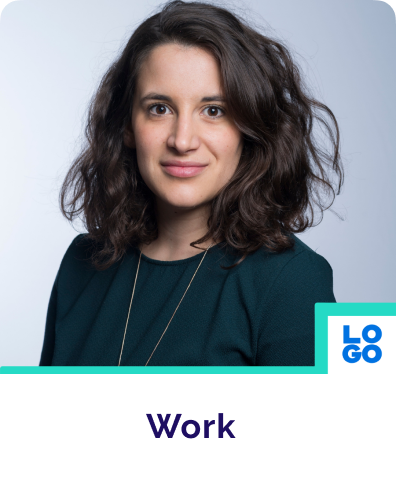
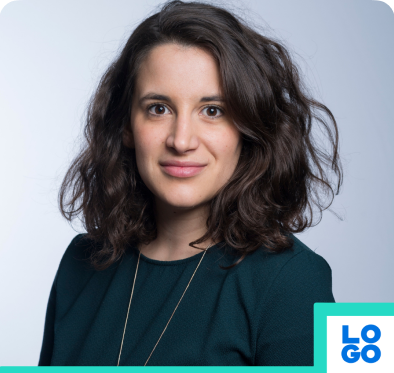
the external card url is now set up for cards, so it can be accessed by other user to store the that card in the contact

diff --git a/src/pages/Cards_Page/IndividualCardPage.jsx b/src/pages/Cards_Page/IndividualCardPage.jsx
@@ -1,0 +1,43 @@
+import React, { useState, useEffect } from 'react';
+import { useParams } from 'react-router-dom';
+import FullCard from "./FullCard";
+import "./IndividualCardPage.css";
+
+
+const IndividualCard = () => {
+    let [cardData, setCardData] = useState();
+
+    //! It has to be called exactly the same as defined in the path(App.js)
+    let { id } = useParams();
+
+    useEffect(() => {
+        console.log(id);
+        fetch(`http://localhost:3306/api/individual/card/${id}`)
+        .then((res) => res.json())
+        .then((data) => {
+            setCardData(data);
+            console.log(data);
+        });
+    }, [id]);
+
+
+    return (
+        <div className="individual-card-page-container">
+            <p>This is the individual contact card page</p>
+            <p>Card ID: {id}</p>
+            <>
+            {cardData ? 
+            <>
+            <p>First Name: {cardData[0].first_name}</p>
+            <p>Second Name: {cardData[0].second_name}</p>
+            </>
+            :
+            null
+            }
+            </>
+            <FullCard />
+        </div>
+    )
+}
+
+export default IndividualCard; 

diff --git a/src/App.js b/src/App.js
@@ -25,6 +25,7 @@ import LPFeatures from './pages/Landing_Page/Features_Section/LPFeatures.jsx';
 import OrderCrdCustomized from './pages/Order_Physical_Card_Page/OrderCrdCust.jsx';
 import OrderCrdPremium from './pages/Order_Physical_Card_Page/OrderCrdPrem.jsx';
 import ContactCardDesign from './pages/View_Contact_Card_Page/ContactCardDesign.jsx';
+import IndividualCardPage from './pages/Cards_Page/IndividualCardPage';
 
 function App() {
   // const context = useContext(MyContext);
@@ -55,6 +56,7 @@ function App() {
             <Route path="/order-cardprem" element={<OrderCrdPremium />} />
             <Route path="/error" element={<Error />} />
             <Route path="/contact-card" element={<ContactCardDesign />} />
+            <Route path="cards/individual/card/:id" element={<IndividualCardPage />} />
           </Routes>
         </Router>
       </MyProvider>

diff --git a/src/pages/Cards_Page/CardsPage.jsx b/src/pages/Cards_Page/CardsPage.jsx
@@ -2,6 +2,7 @@ import './CardsPage.css';
 import React, { useContext, useState } from 'react';
 import { MyContext } from '../../context/MyProvider';
 import SideNavBar from '../../components/Side_NavBar/SideNavBar.jsx';
+import workImg from "../../images/cards_page/card_work@2x.png";
 // import cardWork from '../../images/cards_page/card_work@2x.png';
 // import cardPersonal from '../../images/cards_page/card_personal@2x.png';
 // import createCard from '../../images/cards_page/create_card@2x.png';
@@ -46,7 +47,7 @@ const CardsPage = () => {
         {cardsData ? 
         <>
         {cardsData.map((card, index) => (
-          <Card key={index} colour={card.colour}  id={card.id} type={card.type} />
+          <Card key={index} colour={card.colour} id={card.id} type={card.type} img={workImg} />
         ))}
         </>
         :

diff --git a/src/pages/Cards_Page/Card.jsx b/src/pages/Cards_Page/Card.jsx
@@ -1,6 +1,4 @@
-
 import { useNavigate } from "react-router-dom";
-
 
 const Card = (props) => {
   const navigate = useNavigate();
@@ -9,6 +7,8 @@ const Card = (props) => {
     console.log(id);
     if (id === 3999) {
       navigate("/cards/newcard");
+    } else {
+      navigate(`/cards/individual/card/${id}`)
     }
   };
 

diff --git a/src/pages/Cards_Page/FullCard.jsx b/src/pages/Cards_Page/FullCard.jsx
@@ -1,0 +1,12 @@
+
+const FullCard = () => {
+
+    return (
+        <div>
+            <img src="" alt="img"/>
+            <p>This is the full card component</p>
+        </div>
+    )
+}
+
+export default FullCard;

diff --git a/src/pages/Cards_Page/IndividualCardPage.css b/src/pages/Cards_Page/IndividualCardPage.css
@@ -1,0 +1,5 @@
+
+
+.individual-card-page-container {
+    margin: 0% 20% 0% 20%;
+}
